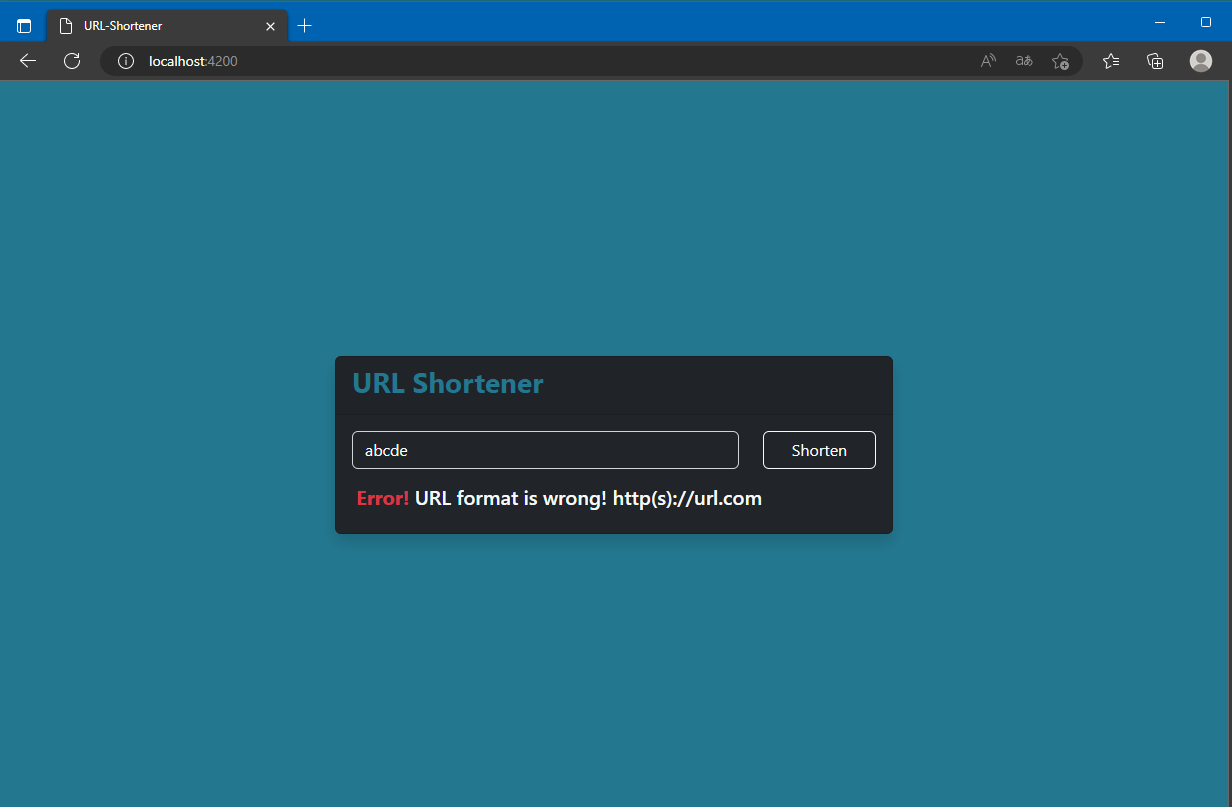
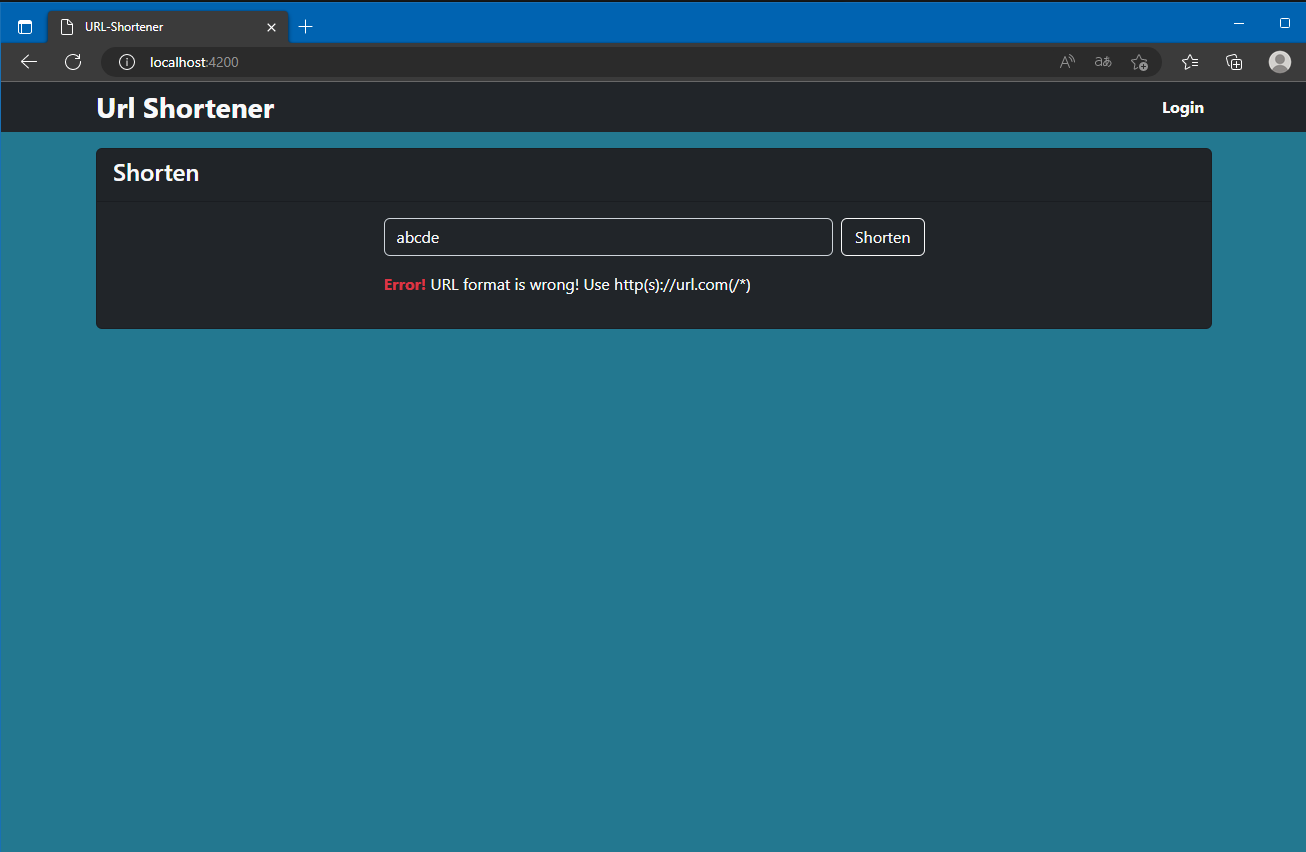
adding new style

diff --git a/frontend/src/app/components/parts/shortener/shortener.component.html b/frontend/src/app/components/parts/shortener/shortener.component.html
@@ -1,15 +1,31 @@
-<div *ngIf="!shorturl">
-  <input (click)="onClickInput()" (keydown.enter)="onShorten()" [(ngModel)]="url" placeholder="Enter a URL" type="url" class="text-light w-100 form-control bg-dark">
-  <button type="button" (click)="onShorten()" class="btn w-100 btn-outline-light">Shorten</button>
-  <div *ngIf="error != ''">
-    {{error}}
-  </div>
-  <div *ngIf="isLoading">
-    <div class="spinner-border text-primary" role="status">
-      <span class="visually-hidden">Loading...</span>
+<div class="w-100">
+  <div *ngIf="!shorturl">
+    <div class="row gx-2">
+      <div class="col-8 col-xl-10">
+        <input (click)="onClickInput()" (keydown.enter)="onShorten()" [(ngModel)]="url" placeholder="Enter a URL to shorten" type="url" class="w-100 text-light form-control bg-dark">
+      </div>
+      <div class="col-4 col-xl-2">
+        <button type="button" (click)="onShorten()" class="w-100 btn btn-outline-light">Shorten</button>
+      </div>
+    </div>
+    <div class="py-3 text-light" *ngIf="error != ''">
+      <span class="text-danger fw-bold">Error!</span> {{error}}
+    </div>
+    <div class="py-4 w-100 d-flex justify-content-center" *ngIf="isLoading">
+      <div class="spinner-border text-primary" role="status">
+        <span class="visually-hidden">Loading...</span>
+      </div>
     </div>
   </div>
-</div>
-<div *ngIf="shorturl">
-    <a id="url" href="{{shorturl}}">{{shorturl}}</a> <fa-icon (click)="onClickCopyToClipboard()" [icon]="faClipboard"></fa-icon>
+  <div class="text-light" *ngIf="shorturl">
+    <div>
+      <a href="/"><button class="mb-2 btn btn-outline-light">&lt; Back</button></a><!--Href, reaload-->
+    </div>
+    <div class="h3">
+      Your new url is:
+    </div>
+    <div class="p-3 rounded d-flex justify-content-between h4" style="background-color: #000;">
+      <a class="link-primary" id="url" href="{{shorturl}}">{{shorturl}}</a> <fa-icon class="text-light hover-primary" (click)="onClickCopyToClipboard()" [icon]="faClipboard"></fa-icon>
+    </div>
+  </div>
 </div>

diff --git a/frontend/src/app/components/parts/shortener/shortener.component.ts b/frontend/src/app/components/parts/shortener/shortener.component.ts
@@ -33,7 +33,7 @@ export class ShortenerComponent implements OnInit {
       return;
     }
     if(!/^(http(s)?:\/\/)[\w.-]+(?:\.[\w\.-]+)+[\w\-\._~:/?#[\]@!\$&'\(\)\*\+,;=.]+$/.test(this.url)) {
-        this.error = "URL format is wrong! http(s)://url.com(/*)";
+        this.error = "URL format is wrong! Use http(s)://url.com(/*)";
         this.isLoading = false;
         return;
     }
@@ -43,7 +43,6 @@ export class ShortenerComponent implements OnInit {
       next: this.successAddingUrl.bind(this),
       error: this.errorAddingUrl.bind(this)
     });
-    this.url = "";
   }
 
   successAddingUrl(data: {message: string, url: Url}) {
@@ -59,5 +58,4 @@ export class ShortenerComponent implements OnInit {
   onClickCopyToClipboard() {
     navigator.clipboard.writeText(this.shorturl);
   }
-
 }

diff --git a/frontend/src/app/components/pages/auth/login/login.component.html b/frontend/src/app/components/pages/auth/login/login.component.html
@@ -1,5 +1,12 @@
-<form>
-  <input type="text" placeholder="Username" class="text-light bg-dark form-control">
-  <input type="text" placeholder="Password" class="text-light bg-dark form-control">
-  <button type="submit" class="btn btn-primary">Login</button>
-</form>
+<div class="card w-100 bg-dark">
+  <div class="card-header text-light fw-bold">
+    <h4>Login</h4>
+  </div>
+  <div class="card-body d-flex justify-content-center">
+    <form>
+      <input type="text" placeholder="Username" class="my-2 text-light bg-dark form-control">
+      <input type="text" placeholder="Password" class="my-2 text-light bg-dark form-control">
+      <button type="submit" class="btn btn-outline-light ">Login</button>
+    </form>
+  </div>
+</div>

diff --git a/frontend/src/styles.css b/frontend/src/styles.css
@@ -42,6 +42,9 @@ main {
   .w-md-50 {
     width: 50% !important;
   }
+  .w-md-25 {
+    width: 25% !important;
+  }
 }
 .btn-primary {
   background-color: var(--bs-primary);
@@ -50,5 +53,10 @@ main {
 .btn-primary:focus, .btn-primary:hover   {
   background-color: var(--bs-primary) !important;
   border: var(--bs-primary) !important;
+  filter: brightness(85%) !important;
+}
+
+.link-primary:hover, .link-primary:focus {
+  color: var(--bs-primary) !important;
   filter: brightness(85%) !important;
 }

diff --git a/frontend/src/app/components/parts/header/header.component.html b/frontend/src/app/components/parts/header/header.component.html
@@ -1,4 +1,4 @@
-<header class="w-100 bg-dark text-light p-2">
+<header class="mb-3 w-100 bg-dark text-light p-2">
 <div class="container d-flex justify-content-between align-items-center">
   <a routerLink="/" class="link-primary text-decoration-none ">
     <h1 class="p-0 m-0 h3 text-light fw-bold text-decoration-none  ">

diff --git a/frontend/src/app/components/pages/index/index.component.html b/frontend/src/app/components/pages/index/index.component.html
@@ -1,1 +1,8 @@
-<app-shortener></app-shortener>
+<div class="card w-100 bg-dark">
+  <div class="card-header text-light fw-bold">
+    <h4>Shorten</h4>
+  </div>
+  <div class="card-body d-flex justify-content-center">
+    <app-shortener class="w-100 w-md-50"></app-shortener>
+  </div>
+</div>
